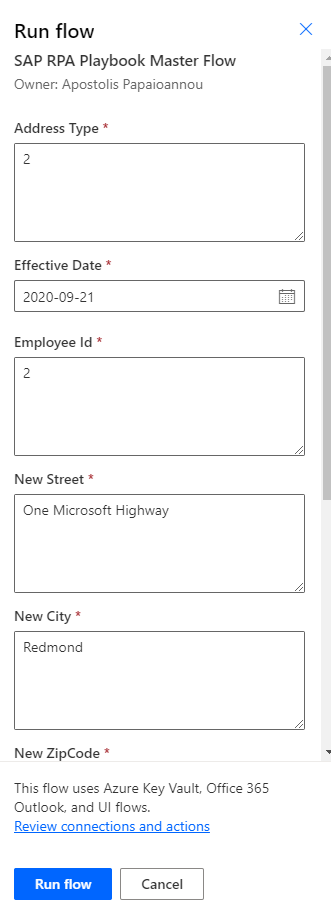
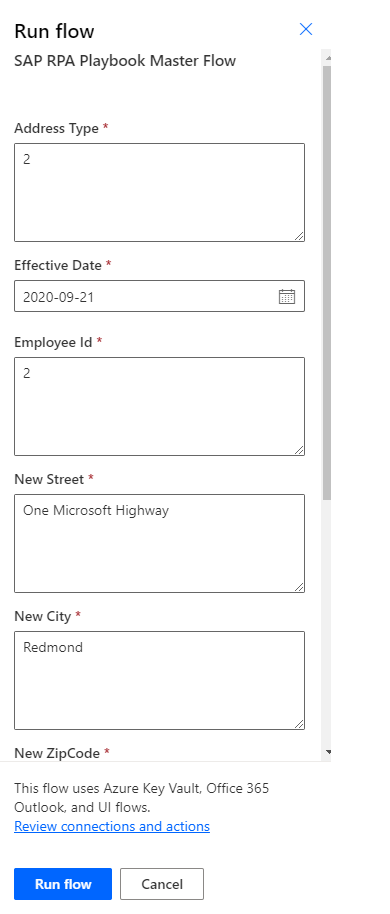
updates for power automate for desktop flows

diff --git a/articles/guidance/rpa-sap-playbook/creating-cloud-flow-to-update-address.md b/articles/guidance/rpa-sap-playbook/creating-cloud-flow-to-update-address.md
@@ -12,7 +12,7 @@ ms.devlang: na
 ms.topic: article
 ms.tgt_pltfrm: na
 ms.workload: na
-ms.date: 06/01/2021
+ms.date: 05/01/2022
 ms.author: kathyos
 ms.reviewer: deonhe
 ---
@@ -90,7 +90,6 @@ We highly recommended that you create cloud flows, desktop flows and other Micro
     :::image type="complex" source="media/add-4-get-secret-Azure-Key-Vault-actions.png" alt-text="Add Get secret actions to the canvas.":::
     Screenshot showing four actions: Get SAP System Id, renamed SAP-HCM-SystemId; Get SAP Client, renamed SAP-HCM-Client; Get SAP User, renamed SAPUser; and Get SAP Password, renamed SAPPassword.
     :::image-end:::
-<!--![Screenshot of Get SAP User action with SAPUser secret  Get SAP Password action with SAPPassword secret  Get SAP System ID action with SAP HCM SystemId secret  and Get SAP Client action with SAP HCM Client secret.](media/add-4-get-secret-Azure-Key-Vault-actions.png)-->
 
 15. Select **More** (**…**) next to the action name, select **Settings**, turn on **Secure Inputs** and **Secure Outputs**, and then select **Done**. Repeat this step for the other three **Get secret** actions.
 
@@ -172,7 +171,7 @@ We highly recommended that you create cloud flows, desktop flows and other Micro
 
     ![Screenshot of the Send an email action being configured.](media/send-email-action-being-configured.png)
 
-32. In the **Try** container, select **New step**. Search for **Desktop flows**, and then select the **Run a flow built by<!--note from editor: Is it okay that some screenshots show this as "with"?--> Power Automate Desktop** action to add it to the flow.
+32. In the **Try** container, select **New step**. Search for **Desktop flows**, and then select the **Run a flow built by Power Automate Desktop** action to add it to the flow.
    
     ![Screenshot of adding the Run flow built by Power Automate Desktop action.](media/adding-run-flow-built-by-power-automate-desktop.png)
 
@@ -207,8 +206,6 @@ We highly recommended that you create cloud flows, desktop flows and other Micro
     Screenshot of the Run a flow built by Power Automate Desktop dialog with the following variables and their settings: SystemId, Client, SAPUser, SAPPassword all set as secret values; EffectiveDate as formatDateTime, Street as New Street, City as New City, State as New State, ZipCode as New ZIP Code, EmployeeId as Employee ID, AddressType as Address Type, and CountryCode as New Country.
     :::image-end:::
 
-<!--![Screenshot of Run a UI flow built by Power Automate Desktop box with all variables set.](media/run-a-UI-flow-built-by-PAD-with-variables-set.png)-->
-
 38. Select **Save** to save the flow.
 
     ![Screenshot of Save button in the Power Automate flow designer.](media/save-button-in-flow-designer.png)
@@ -217,17 +214,15 @@ We highly recommended that you create cloud flows, desktop flows and other Micro
 
     ![Screenshot of Test button in the Power Automate flow designer.](media/test-button-in-flow-designer.png)
 
-    <!--Todo: save and test... is it in the UI?-->
-
 40. Select **I'll perform the trigger action**, and then select **Save & Test**.
 
     ![Screenshot of the Test Flow dialog in the Power Automate portal.](media/test-flow-dialog-box.png)
 
-41. Authenticate if needed, and then select **Continue**.<!--note from editor: Please remove Apostolis's name from the image.  Also, should "UI flows" be "Desktop flows"?-->
+41. Authenticate if needed, and then select **Continue**.
 
     ![Screenshot of the Run flow dialog in the Power Automate portal with a sign-in area for connection authorization and Continue selected.](media/run-flow-dialog-with-sign-in-area.png)
 
-42. Supply values for all variables, and then select **Run flow**.<!--note from editor: Please remove Apostolis's name from the image. Also, should "UI flows" be "Desktop flows"?-->
+42. Supply values for all variables, and then select **Run flow**.
 
     ![Screenshot of the Run flow dialog in the Power Automate portal with values entered and the Run flow button selected.](media/run-flow-dialog-with-variables-and-run-flow-button.png)
 

diff --git a/articles/task-mining-tutorial.md b/articles/task-mining-tutorial.md
@@ -10,7 +10,7 @@ ms.date: 11/02/2021
 ms.author: tatn
 ms.reviewer: v-aangie
 search.app: 
-  - Flow[https://preview.flow.microsoft.com/en-us/?processinsights-core.tabularData=true](https://preview.flow.microsoft.com/en-us/?processinsights-core.tabularData=true)
+  - Flow[https://preview.flow.microsoft.com/?processinsights-core.tabularData=true](https://preview.flow.microsoft.com/?processinsights-core.tabularData=true)
 search.audienceType: 
   - flowmaker
   - enduser
@@ -29,7 +29,7 @@ This tutorial with sample data allows you to experience task mining in the proce
 
 For the task mining tutorial, download [User recording demo data](https://go.microsoft.com/fwlink/?linkid=2175600). For the process mining tutorial, go to [Tutorial: Get started with process mining (preview)](process-mining-tutorial.md).
 
-## Get process advisor ready 
+## Get process advisor ready
 
 1. Sign in to [Power Automate](https://flow.microsoft.com/).
 
@@ -86,7 +86,7 @@ For the task mining tutorial, download [User recording demo data](https://go.mic
     > [!div class="mx-imgBorder"]
     > ![Screenshot of the process advisor home screen.](media/task-mining-tutorial/select-processes.png "Process advisor home screen")
 
-11.	Select the **Invoice submission process**.
+1. Select the **Invoice submission process**.
 
     > [!div class="mx-imgBorder"]
     > ![Screenshot of the invoice submission process.](media/task-mining-tutorial/invoice-submission.png "Invoice submission process")
@@ -127,7 +127,7 @@ You'll see the following features:
 - **Analyze**: Analyze a process.
 
 - **Create activity names**: Create activity names for your process.
- 
+
 - **Delete process**: Delete your process.
 
 ## Analyze a process
@@ -165,7 +165,7 @@ This section explains what you can do on the Analytics screen.
 
 - **Process**: Provides detailed information about the analyzed process. This is where users can find the process map and general information about the process (time analytics per variant and per the recording’s author).
 
-- **Application (preview)**: Provides information about the apps used in recordings. This includes what apps were used by authors, how often were they used, and what the transitions were between them. This report explains which connectors should be used when implementing automation for the process, and where potentially to use Power Automate for desktop as there’s no existing connector.
+- **Application (preview)**: Provides information about the apps used in recordings. This includes what apps were used by authors, how often were they used, and what the transitions were between them. This report explains which connectors should be used when implementing automation for the process, and where potentially to use desktop flows as there’s no existing connector.
 
 ### Business process step relationships
 

diff --git a/articles/ip-address-configuration.md b/articles/ip-address-configuration.md
@@ -24,6 +24,7 @@ search.audienceType:
 ---
 
 # IP address configuration
+
 The [IP addresses](/connectors/common/outbound-ip-addresses#power-platform) from which Power Automate requests are sent depends on the [region](regions-overview.md) where the [environment](environments-overview-admin.md) that contains the flow is located. We don't currently publish FQDNs available for flow scenarios.
 
 >[!IMPORTANT]
@@ -32,15 +33,17 @@ The [IP addresses](/connectors/common/outbound-ip-addresses#power-platform) from
 You should also consult the [Limits and Configuration](limits-and-config.md) article for a supplemental listing for known IP addresses that Power Automate uses.
 
 ## Logic Apps
+
 Calls made from a cloud flow go directly through the Azure Logic App service. Some examples of these calls include HTTP or HTTP + Open API. Please reference [the Logic apps documentation](/azure/logic-apps/logic-apps-limits-and-config#firewall-configuration-ip-addresses-and-service-tags) for which IP addresses are used by that service.
 
 ## Connectors
-Calls made from a connector in a cloud flow (for example, the SQL API or the SharePoint API) come from these [IP addresses](/connectors/common/outbound-ip-addresses#power-platform).
 
+Calls made from a connector in a cloud flow (for example, the SQL API or the SharePoint API) come from these [IP addresses](/connectors/common/outbound-ip-addresses#power-platform).
 
 If you must authorize IP addresses for your Azure SQL database, you should use these addresses.
 
 ## Required services
+
 The following table lists the services to which Power Automate connects. Ensure none of these services are blocked on your network.
 
 | Domains | Protocols | Uses |
@@ -60,9 +63,11 @@ The following table lists the services to which Power Automate connects. Ensure 
 |login.partner.microsoftonline.cn|https|Access to the Power Automate for desktop cloud discovery|
 
 ## Approval email delivery
+
 Please see the [approvals email delivery article](https://go.microsoft.com/fwlink/?linkid=2128304) for details about approvals email routing.
 
 ## Desktop flows services required for runtime
+
 The following table lists endpoint data requirements for connectivity from a user's machine for desktop flows runs.
 
 | Endpoint type | Domains | Protocols | Uses |

diff --git a/articles/process-advisor-overview.md b/articles/process-advisor-overview.md
@@ -6,7 +6,7 @@ author: nijemcevic
 ms.subservice: process-advisor
 ms.topic: overview
 
-ms.date: 11/02/2021
+ms.date: 05/02/2022
 ms.author: tatn
 ms.reviewer: v-aangie
 search.app: 
@@ -40,7 +40,6 @@ Here are some reasons to help you decide to use task mining or process mining:
 
 - Automate tasks that would accelerate processes and reduce human errors.
 
-
 ### Use process mining to:
 
 - See the actual steps to perform a process.
@@ -57,14 +56,14 @@ Explore the sections in [Task mining](task-mining-overview.md) and [Process mini
 
 - Business scenarios
 - Tutorials
--  Guided procedures
+- Guided procedures
 - Videos
 
 ## Licensing
 
 Process advisor is licensed as part of Power Automate user licenses. If you don’t have a license, you can start a Power Automate trial to try process advisor.
 
-For more information about process advisor licensing, go to [Power Automate pricing](https://us.flow.microsoft.com/en-us/pricing/) and [Power Apps and Power Automate licensing FAQ](/power-platform/admin/powerapps-flow-licensing-faq).
+For more information about process advisor licensing, go to [Power Automate pricing](https://us.flow.microsoft.com/pricing/) and [Power Apps and Power Automate licensing FAQ](/power-platform/admin/powerapps-flow-licensing-faq).
 
 For complete licensing details, go to the [Microsoft Power Apps and Power Automate licensing guide](https://go.microsoft.com/fwlink/?LinkId=2085130).
 
@@ -78,6 +77,6 @@ Before you start using process advisor, make sure you have the following prerequ
 
 - A [Power Automate](https://powerautomate.microsoft.com/) license.
 
-- [Power Automate for desktop](desktop-flows/introduction.md).
+- [Desktop flows](desktop-flows/introduction.md).
 
 [!INCLUDE[footer-include](includes/footer-banner.md)]

diff --git a/articles/flow-types.md b/articles/flow-types.md
@@ -14,7 +14,7 @@ ms.subservice: cloud-flow
 ms.topic: overview
 ms.tgt_pltfrm: na
 ms.workload: na
-ms.date: 03/16/2022
+ms.date: 05/06/2022
 ms.author: deonhe
 search.app: 
   - Flow
@@ -43,9 +43,8 @@ Create a cloud flow when you want your automation to be triggered either automat
 | [Scheduled flows](run-scheduled-tasks.md)                    | Schedule an automation such as daily data upload to SharePoint or a database.             |Tasks that need to be automated on a schedule.                                                                            |
 
 ## Desktop flows
-    
-Desktop flows are used to automate tasks on the Web or the desktop. Using [Power Automate for desktop](./desktop-flows/introduction.md) you can automate tasks on the desktop as well as the Web. Alternatively, you can use the two legacy methods of creating desktop flows: [Windows recorder (V1) and Selenium IDE](./desktop-flows/overview.md).
 
+Use [desktop flows](./desktop-flows/introduction.md) to automate tasks on the Web or the desktop.
 
 ## Business process flows
 
